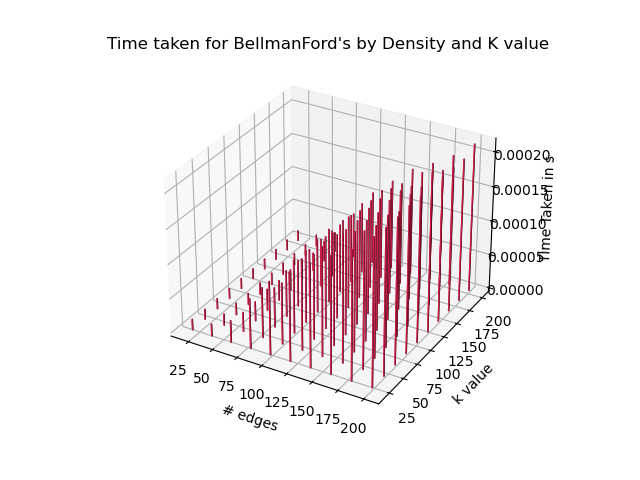
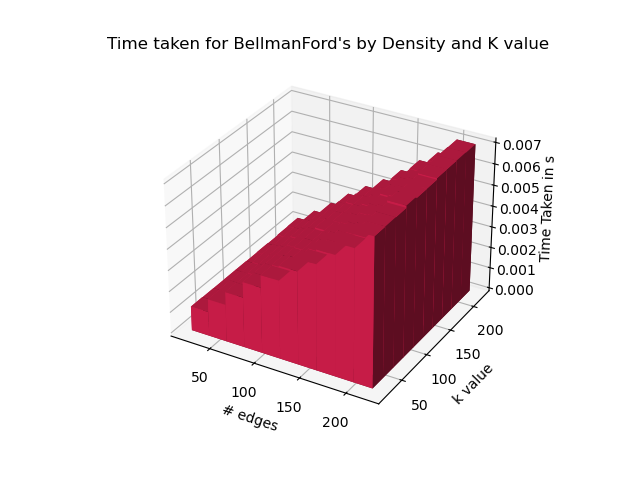
fix pt 2 again

Changed region(s): [[0.25, 0.1875, 0.875, 0.875], [0.25, 0.75, 0.5938, 0.9062]]

diff --git a/part_two/part_two.py b/part_two/part_two.py
@@ -214,19 +214,25 @@ def bellmanford(G, source, k):
         else:
             curr_shortest_distance[node] = float("inf")
 
-    for k in range(len(G.adj_list)):
+    for p in range(len(G.adj_list)):
+        seen = set()
         for i in range(len(G.adj_list)):
             for j in range(len(G.adj_list[i])):
                 from_node = i;
                 to_node = G.adj_list[i][j]
 
+                if (from_node, to_node) in seen or (to_node, from_node) in seen:
+                    continue
+
                 if curr_shortest_distance[to_node] > curr_shortest_distance[from_node] + G.w(from_node, to_node):
-                    if relaxed[from_node] < k:
+                    if relaxed[to_node] < k:
                         edge_to[to_node] = from_node
 
                     curr_shortest_distance[to_node] = curr_shortest_distance[from_node] + G.w(from_node, to_node)
 
                     relaxed[to_node] += 1
+                
+                seen.add((to_node, from_node))
             
     for i in range(len(G.adj_list)):
         for j in range(len(G.adj_list[i])):
@@ -322,13 +328,13 @@ def dijkstras_experiment():
     dx = []
     for i in range(10):
         for j in range(10):
-            dx += [1]
+            dx += [20]
 
     # size of y for each bar
     dy = []
     for i in range(10):
         for j in range(10):
-            dy += [1]
+            dy += [20]
 
     # size of z for each bar
     dz = []
@@ -357,6 +363,7 @@ def bellmanford_experiment():
             #for the given edge and k values, time how long it takes to perform dijkstras
             averaging_array = []
             for k in range(100):
+                
                 G = create_random_graph(100, (i + 1) * 20)
 
                 start = timeit.default_timer()
@@ -389,13 +396,13 @@ def bellmanford_experiment():
     dx = []
     for i in range(10):
         for j in range(10):
-            dx += [1]
+            dx += [20]
 
     # size of y for each bar
     dy = []
     for i in range(10):
         for j in range(10):
-            dy += [1]
+            dy += [20]
 
     # size of z for each bar
     dz = []
@@ -413,8 +420,8 @@ def bellmanford_experiment():
     plt.title("Time taken for BellmanFord's by Density and K value") 
     plt.savefig("BellmanFord.png")
 
-# dijkstras_experiment()
-# bellmanford_experiment()
+dijkstras_experiment()
+bellmanford_experiment()
 
 def furturTesting():
 
@@ -425,7 +432,7 @@ def furturTesting():
         
         print(f"Dijkstra's result for node 0: {dij_result[0]}")
         print(f"Bellman-Ford result for node 0: {bf_result[0]}")
-        print(f"Empty graph test: {dij_result[0] == (0, '') and bf_result[0] == (0, '')}")
+        print(f"Empty graph test: {dij_result[0] == (0, '') and bf_result[0] == (0, '')}\n\n")
     
     def test_disconnected_graph():
         G = WeightedGraph(5)
@@ -435,6 +442,7 @@ def furturTesting():
         print("Distances to other nodes should be infinity:")
         print(dij_result)
         print(bf_result)
+        print("\n\n")
     
     def test_simple_linear_path():
         G = WeightedGraph(5)
@@ -449,6 +457,8 @@ def furturTesting():
         print("Expected distances: [0, 1, 2, 3, 4]")
         print(dij_result)
         print(bf_result)
+        print("\n\n")
+
 
     def test_negative_weights():
         G = WeightedGraph(4)
@@ -460,6 +470,8 @@ def furturTesting():
         bf_result = bellmanford(G, 0, 3)
         print(bf_result)
         print(f"Bellman works with negative weights: {bf_result == {}}")
+        print("\n\n")
+
 
     def test_limited_relaxations(): 
         G = WeightedGraph(5)
@@ -473,6 +485,8 @@ def furturTesting():
         bf_result = bellmanford(G, 0, 1)
         print(dij_result)
         print(bf_result)
+        print("\n\n")
+
     
     def test_multiple_paths_same_length():
         G = WeightedGraph(4)
@@ -486,6 +500,8 @@ def furturTesting():
         
         print(f"Dijkstra's distance to node 3: {dij_result[3][0]} (should be 4)")
         print(f"Bellman-Ford distance to node 3: {bf_result[3][0]} (should be 4)")
+        print("\n\n")
+
     
     def test_weighted_cycle():
         G = WeightedGraph(5)
@@ -501,6 +517,8 @@ def furturTesting():
         
         print(f"Dijkstra's distance to node 3: {dij_result[3][0]} (should be 6, not 10 or 9)")
         print(f"Bellman-Ford distance to node 3: {bf_result[3][0]} (should be 6, not 10 or 9)")
+        print("\n\n")
+
 
     test_empty_graph()
     test_disconnected_graph()
